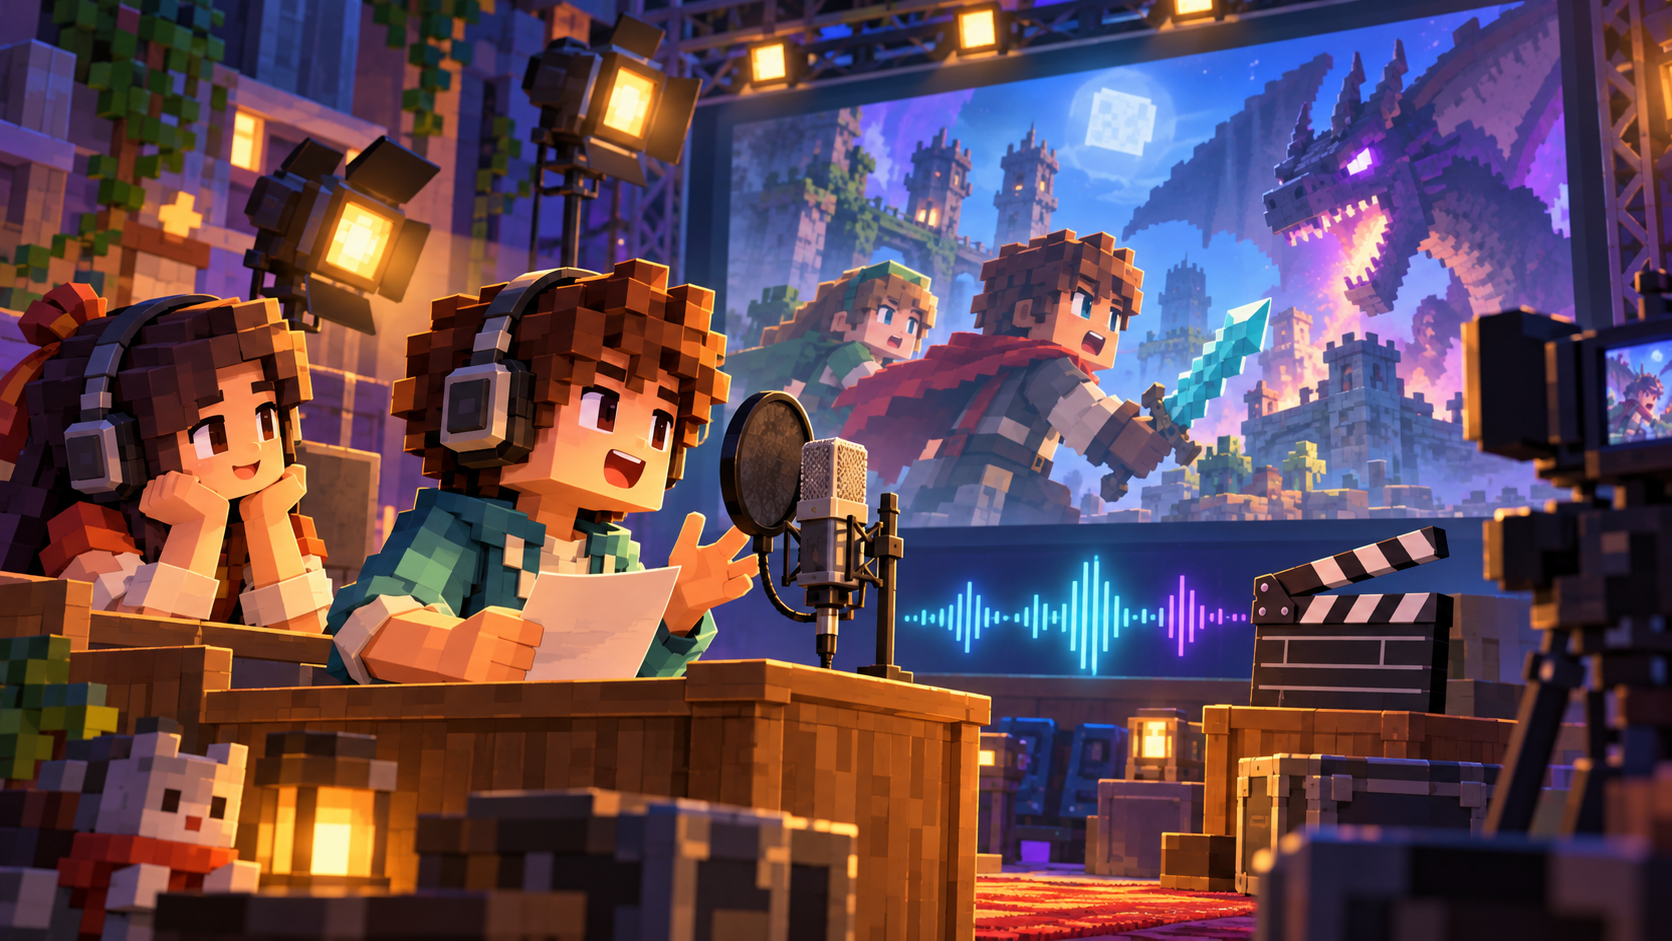
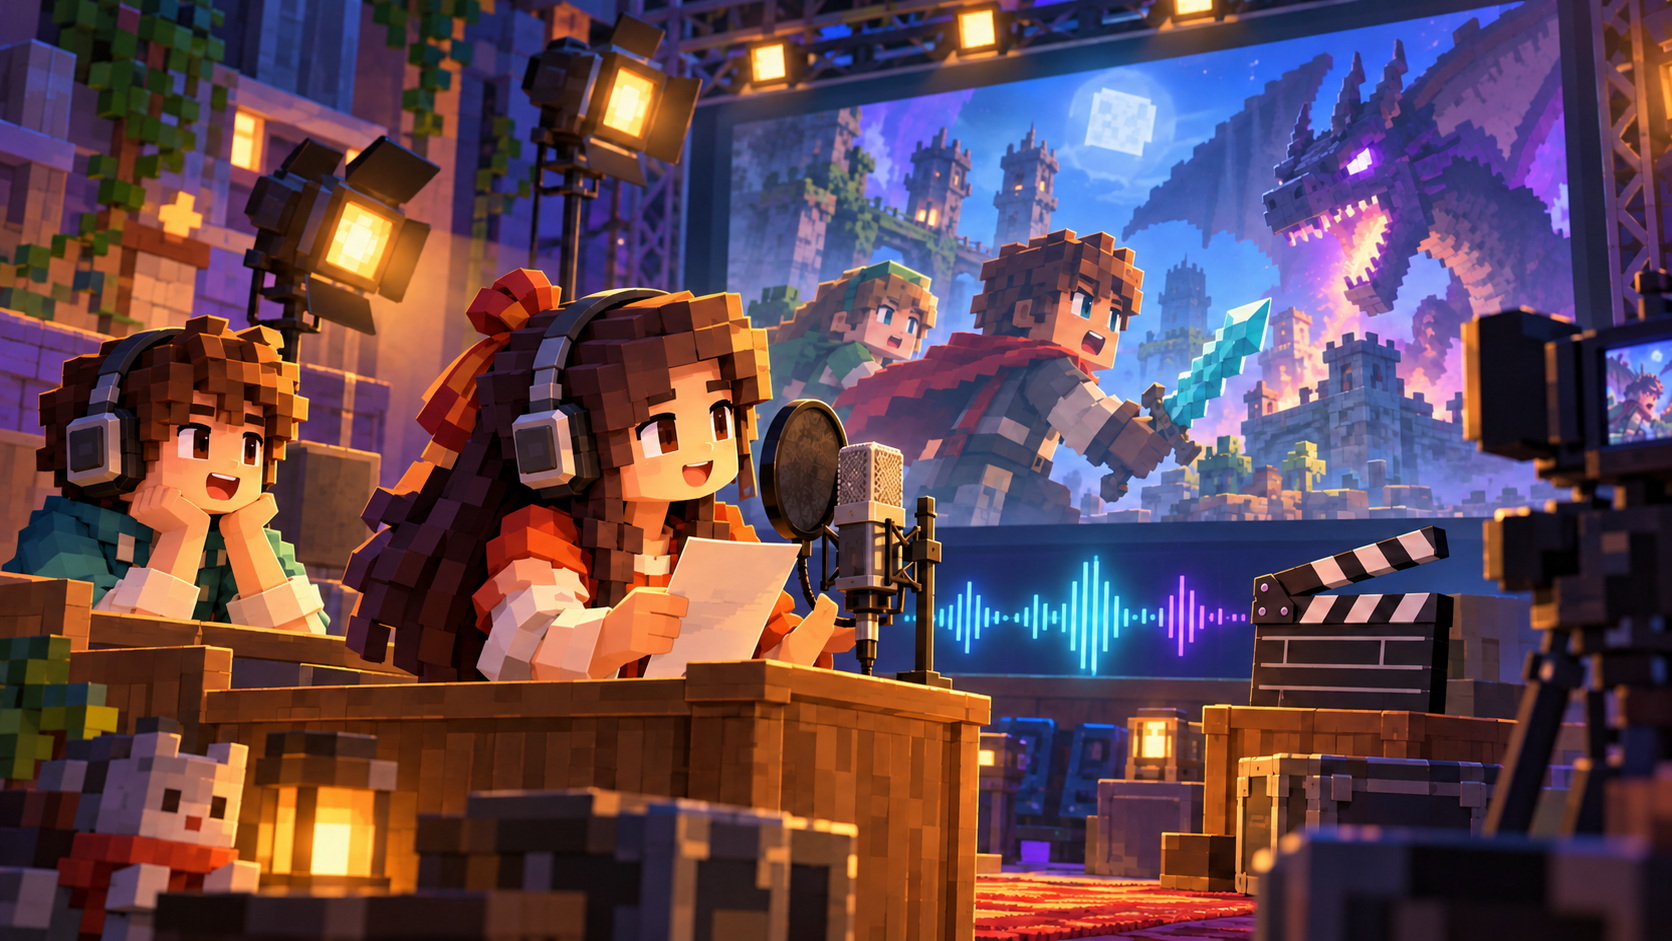
Put girl at dubbing microphone on mode card

Changed region(s): [[0.0, 0.2774, 0.5909, 0.7396], [0.5909, 0.9245, 0.7464, 1.0], [0.7153, 0.4623, 0.7464, 0.4931]]

diff --git a/game/index.html b/game/index.html
@@ -47,7 +47,7 @@
         </a>
 
         <a class="mode-card mode-card--dub" href="?open=dub" aria-label="Dub the Scene: sahneleri kendi sesinle seslendir">
-          <div class="mode-card__art"><img src="/assets/modes/dub.png" alt="Blok dünyadan bir film sahnesini mikrofon başında seslendiren oyuncu" /></div>
+          <div class="mode-card__art"><img src="/assets/modes/dub.png" alt="Blok dünyada mikrofon başında film sahnesini seslendiren kız ve onu dinleyen erkek" /></div>
           <div class="mode-card__content">
             <div class="mode-card__meta"><span class="mode-card__number">03 / SESLENDİRME</span><span class="mode-card__glyph" aria-hidden="true">▣</span></div>
             <h2>Dub the Scene</h2>
